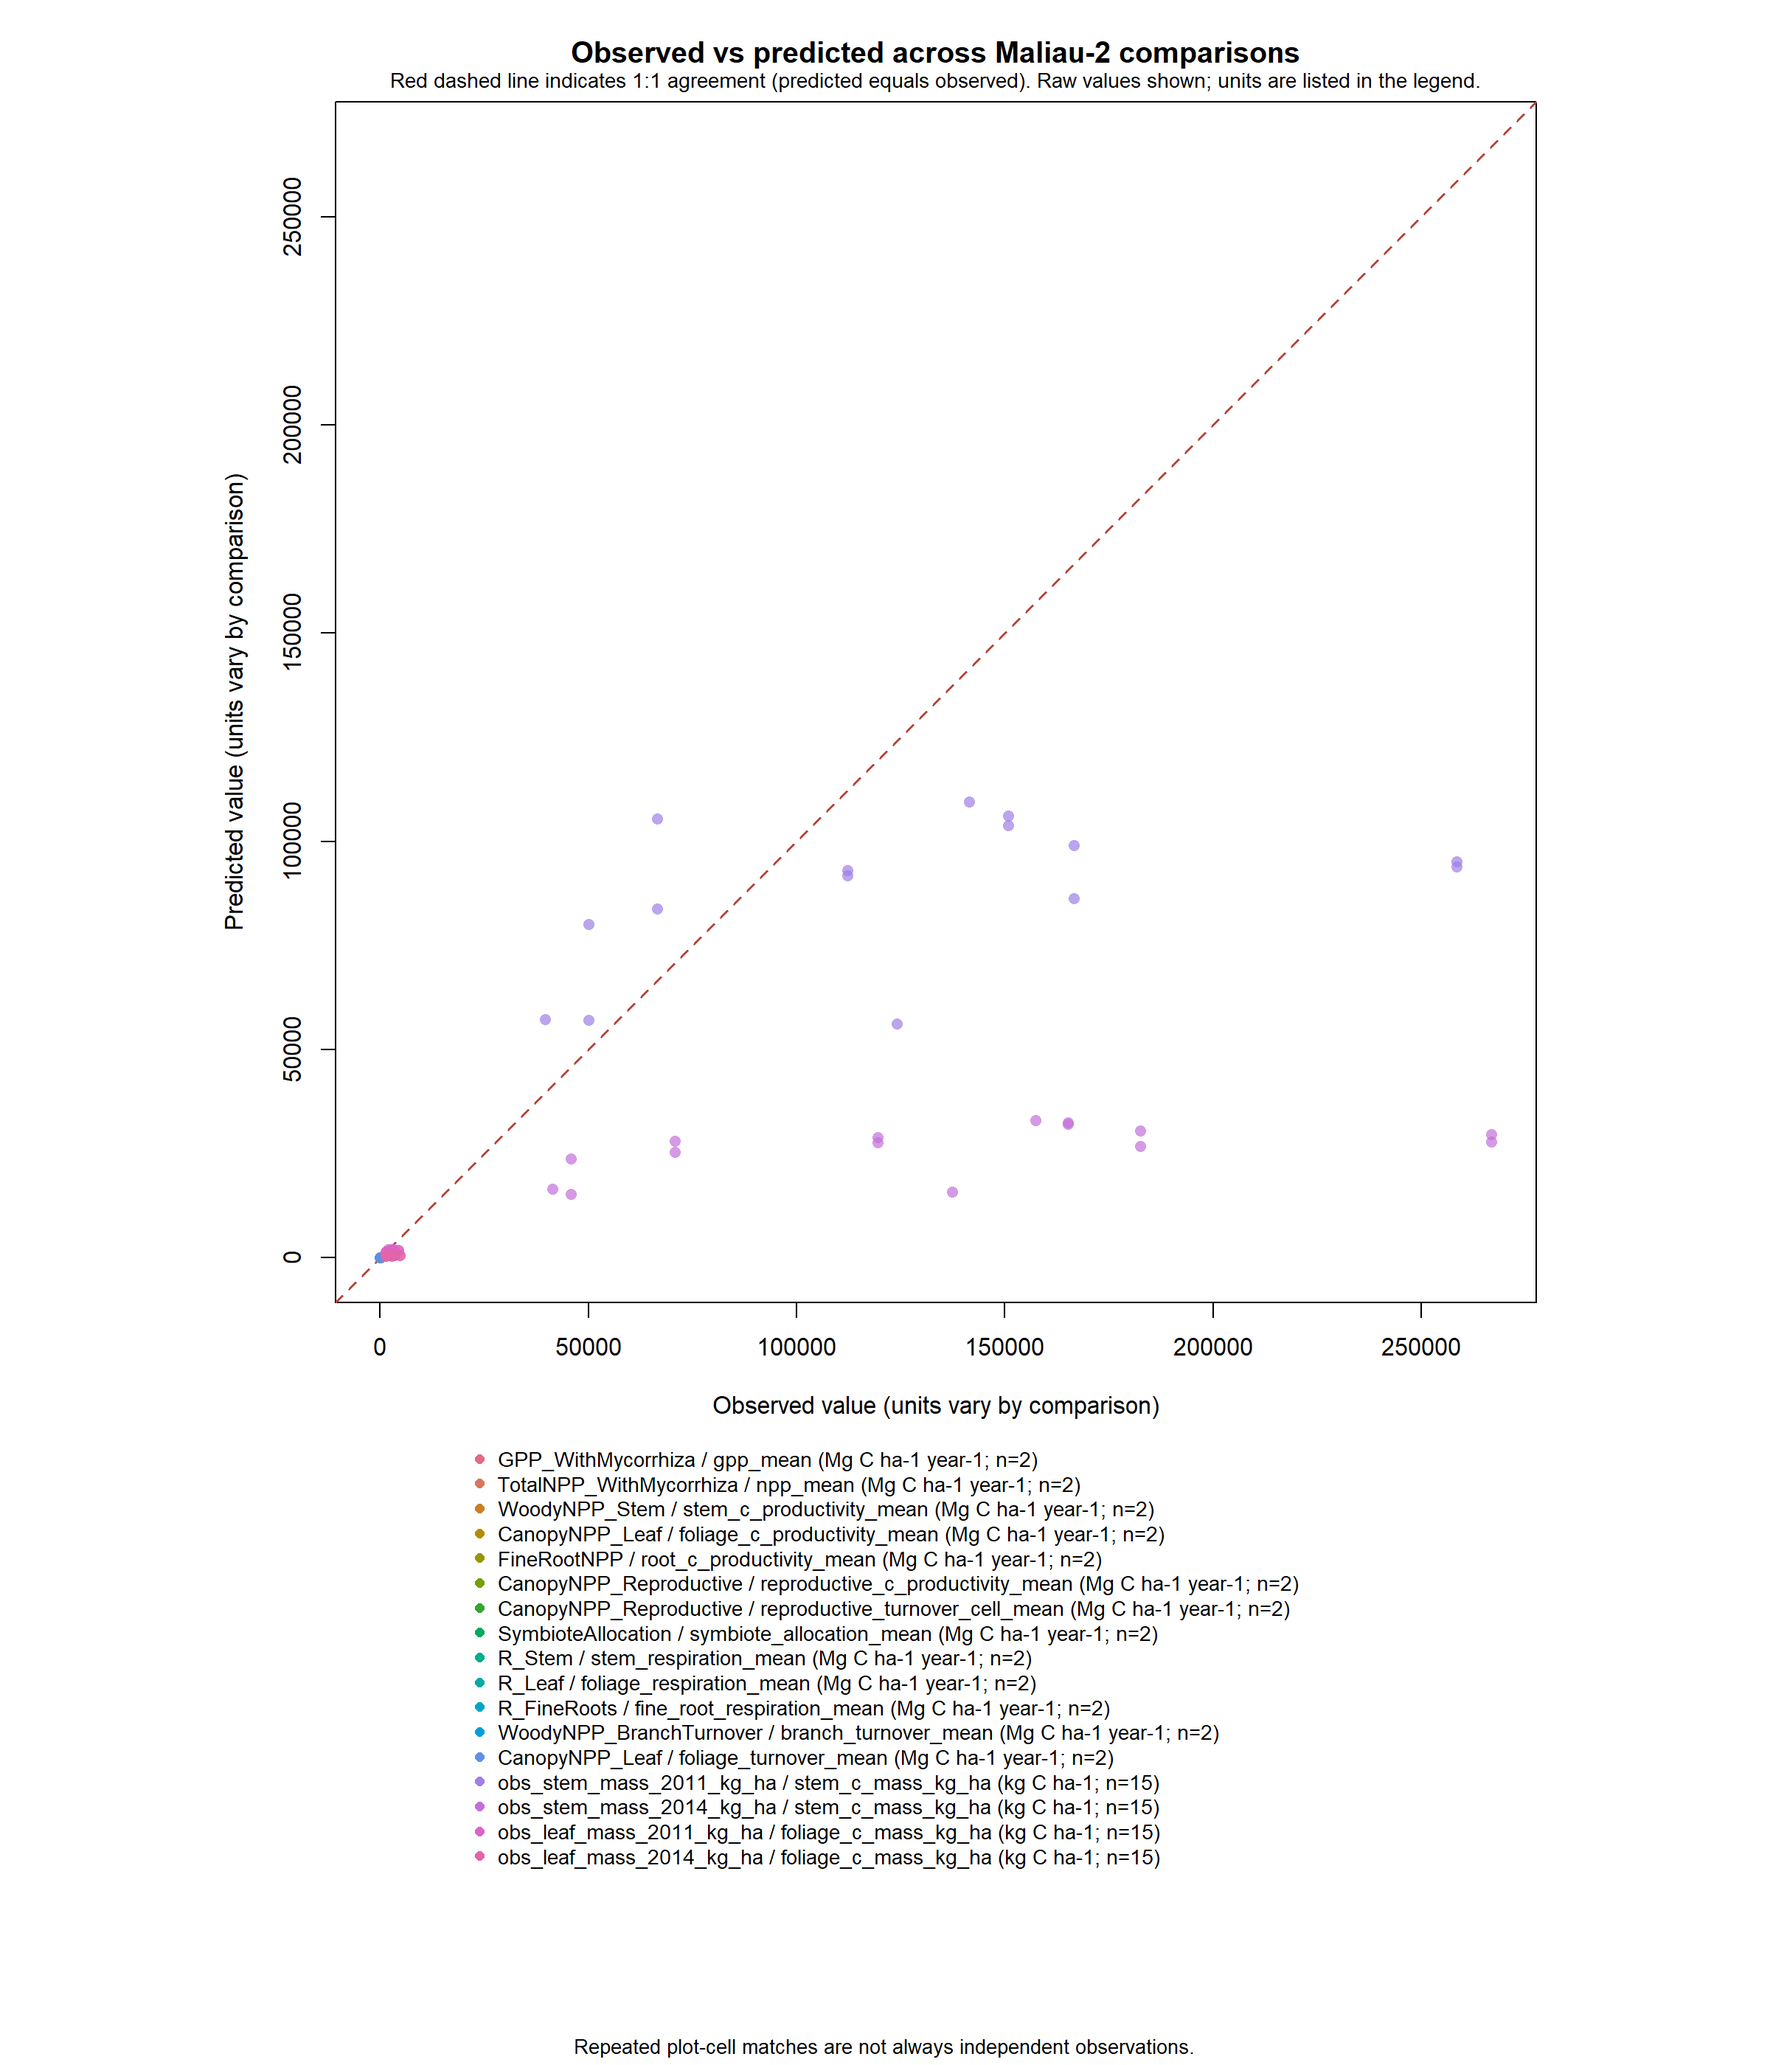
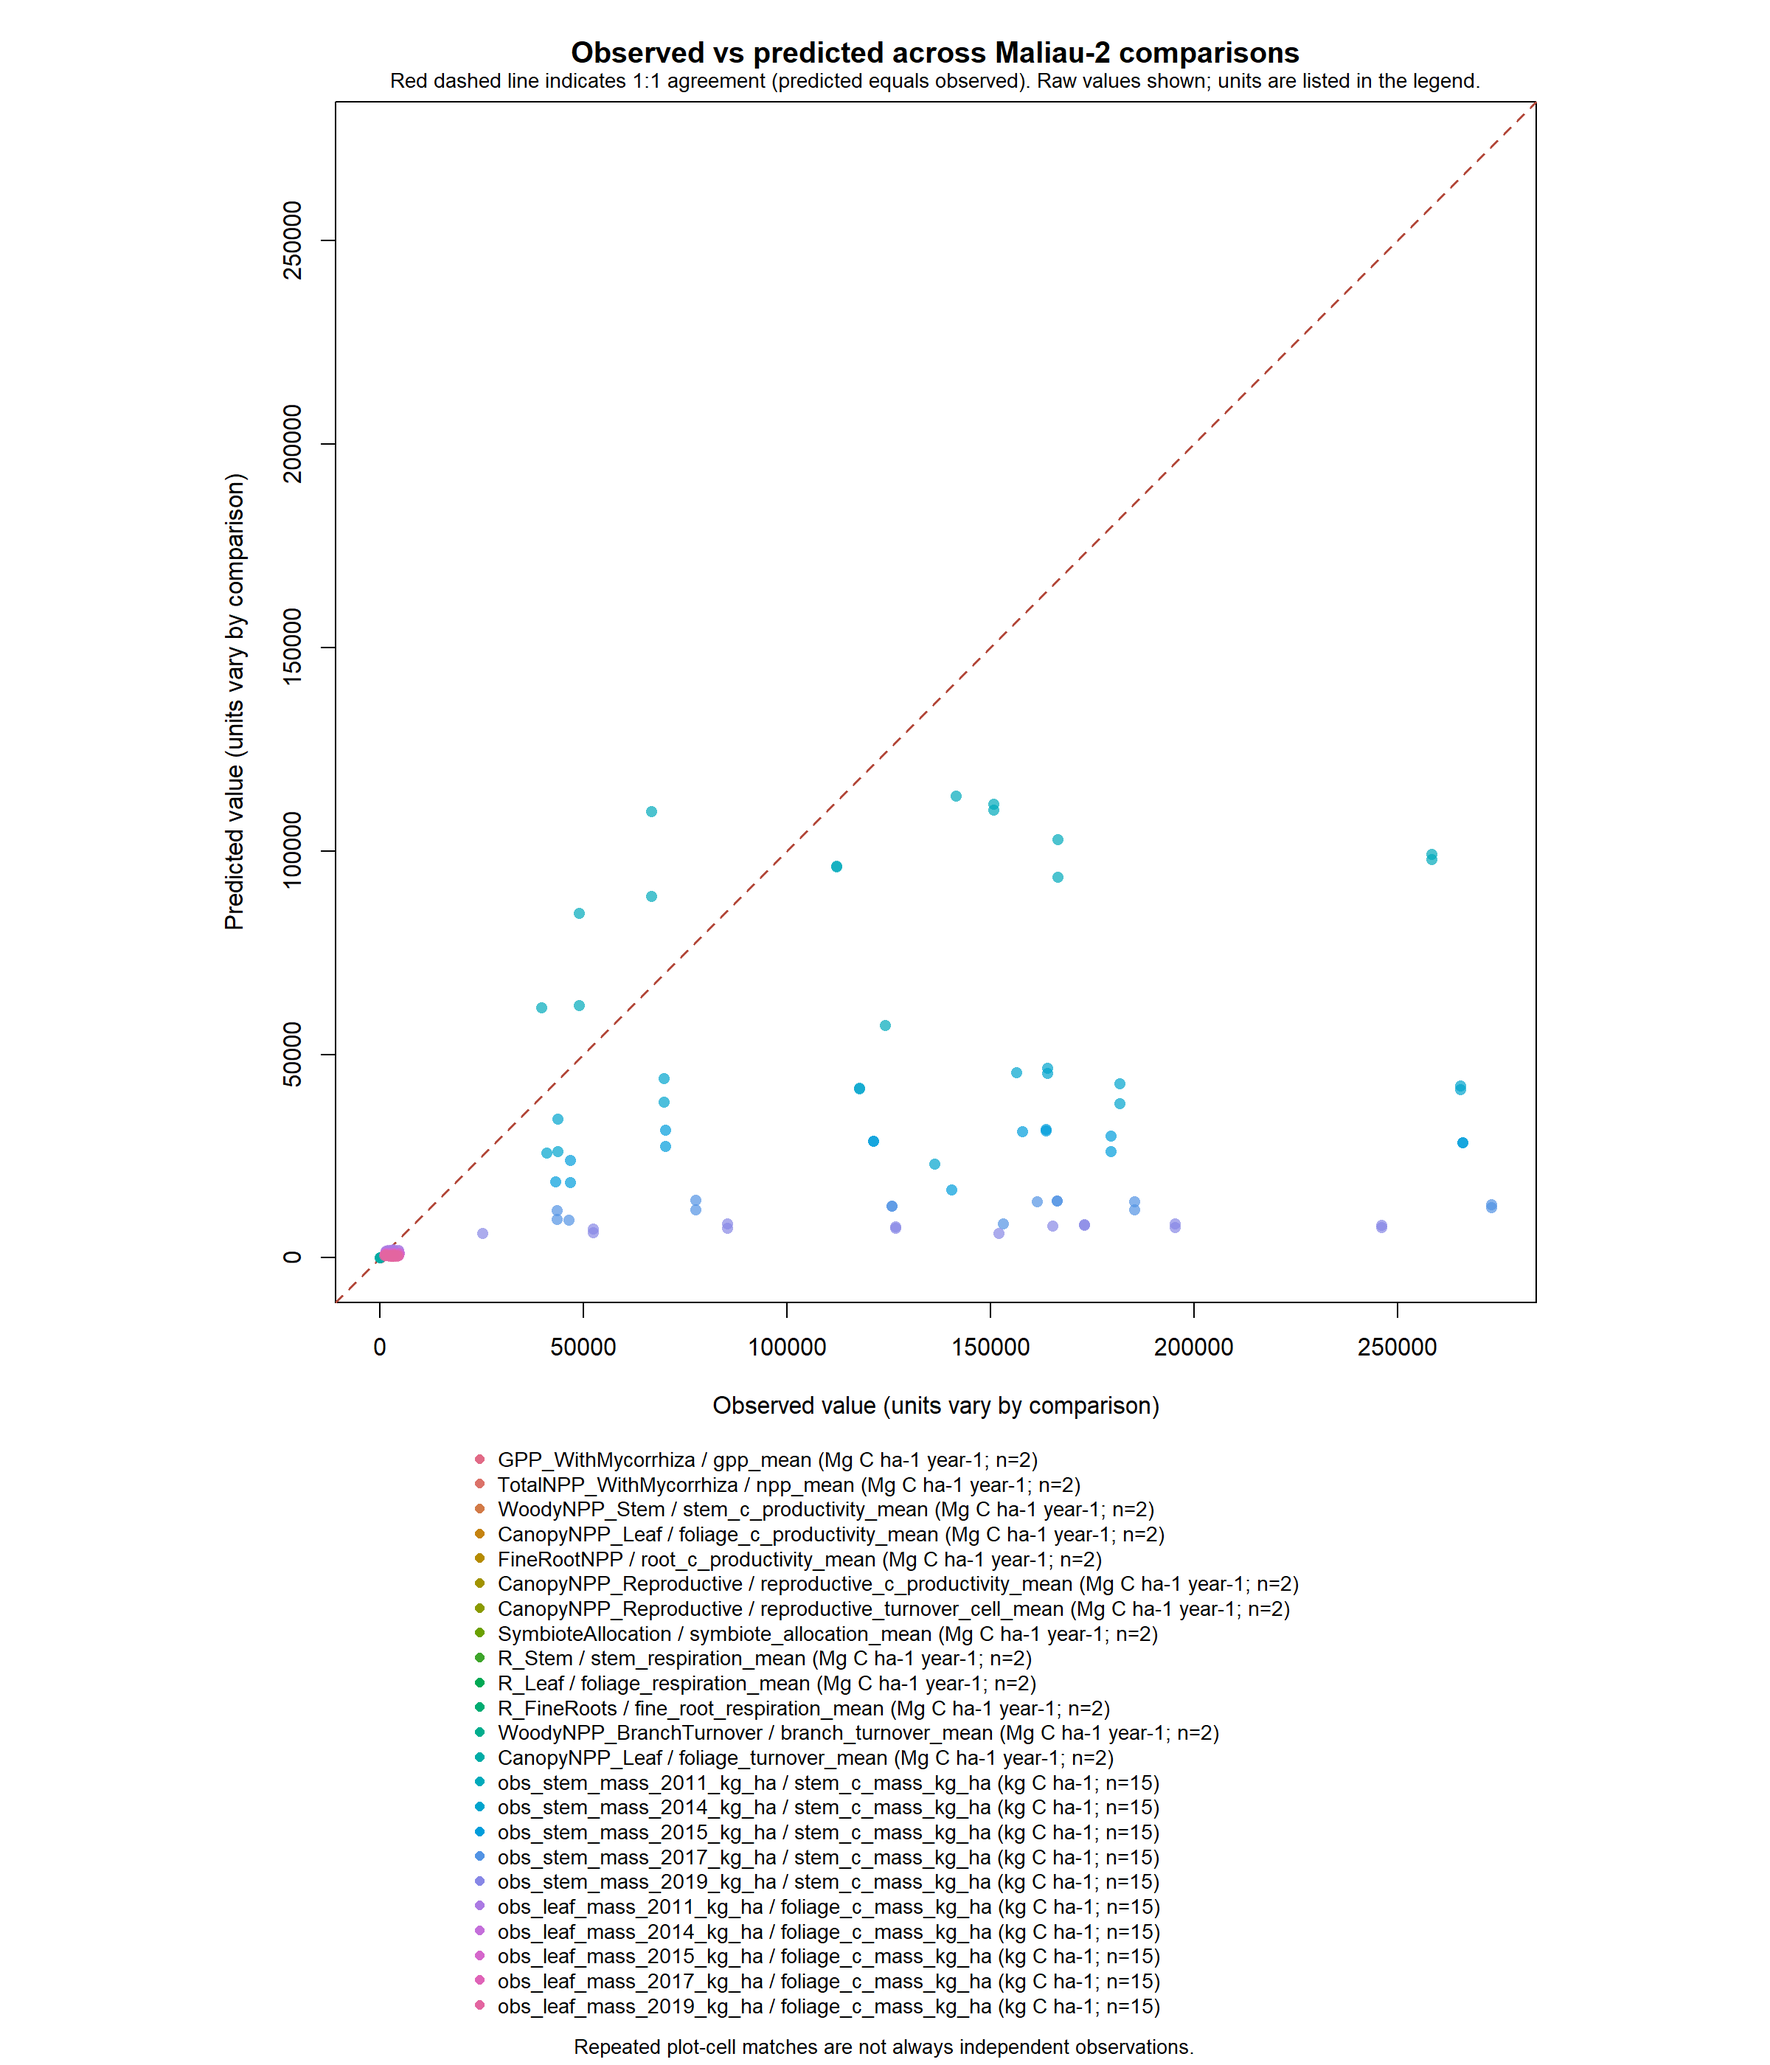
update plant validation tracker and summary figure

diff --git a/docs/plant_validation_tracker.md b/docs/plant_validation_tracker.md
@@ -26,7 +26,13 @@ Pooled consecutive simulation dates and cell IDs are shown as ranges.
 |CanopyNPP_Leaf           |foliage_turnover_mean            |Mg C ha-1 year-1 |Mg C ha-1 year-1 |Car_Bel; Car_Ser                                                                                                                      |0 to 99                                                    |2011-08-25 to 2018-07-17                                                                                                                                                           |2011-08 to 2018-07                                                                                                                                                                 |exact                        |pooled                        |pooled                        |pooled                         |
 |obs_stem_mass_2011_kg_ha |stem_c_mass_kg_ha                |kg C ha-1        |kg C ha-1        |OG2_728; OG2_727; OG2_727; OG2_721; OG2_723; OG2_723; OG2_728; OG2_725; OG2_724; OG2_724; OG2_725; OG2_726; OG2_722; OG2_720; OG2_720 |39; 43; 44; 45; 47; 48; 49; 54; 58; 59; 64; 86; 87; 96; 97 |2010-10-25; 2010-10-26; 2010-10-26; 2010-10-26; 2010-10-25; 2010-10-25; 2010-10-25; 2010-10-27; 2010-10-26; 2010-10-26; 2010-10-27; 2010-10-28; 2010-10-27; 2010-10-28; 2010-10-28 |2010-11-01; 2010-11-01; 2010-11-01; 2010-11-01; 2010-11-01; 2010-11-01; 2010-11-01; 2010-11-01; 2010-11-01; 2010-11-01; 2010-11-01; 2010-11-01; 2010-11-01; 2010-11-01; 2010-11-01 |exact                        |exact                         |exact                         |exact                          |
 |obs_stem_mass_2014_kg_ha |stem_c_mass_kg_ha                |kg C ha-1        |kg C ha-1        |OG2_728; OG2_727; OG2_727; OG2_721; OG2_723; OG2_723; OG2_728; OG2_725; OG2_724; OG2_724; OG2_725; OG2_726; OG2_722; OG2_720; OG2_720 |39; 43; 44; 45; 47; 48; 49; 54; 58; 59; 64; 86; 87; 96; 97 |2013-07-22; 2013-07-30; 2013-07-30; 2013-07-27; 2013-07-25; 2013-07-25; 2013-07-22; 2013-08-03; 2013-07-23; 2013-07-23; 2013-08-03; 2013-08-24; 2013-08-27; 2013-08-26; 2013-08-26 |2013-08-01; 2013-08-01; 2013-08-01; 2013-08-01; 2013-08-01; 2013-08-01; 2013-08-01; 2013-09-01; 2013-08-01; 2013-08-01; 2013-09-01; 2013-09-01; 2013-09-01; 2013-09-01; 2013-09-01 |exact                        |exact                         |exact                         |exact                          |
+|obs_stem_mass_2015_kg_ha |stem_c_mass_kg_ha                |kg C ha-1        |kg C ha-1        |OG2_728; OG2_727; OG2_727; OG2_721; OG2_723; OG2_723; OG2_728; OG2_725; OG2_724; OG2_724; OG2_725; OG2_726; OG2_722; OG2_720; OG2_720 |39; 43; 44; 45; 47; 48; 49; 54; 58; 59; 64; 86; 87; 96; 97 |2014-10-17; 2014-10-25; 2014-10-25; 2014-10-23; 2014-10-20; 2014-10-20; 2014-10-17; 2014-10-27; 2014-10-20; 2014-10-20; 2014-10-27; 2014-10-29; 2014-10-28; 2014-10-29; 2014-10-29 |2014-11-01; 2014-11-01; 2014-11-01; 2014-11-01; 2014-11-01; 2014-11-01; 2014-11-01; 2014-11-01; 2014-11-01; 2014-11-01; 2014-11-01; 2014-11-01; 2014-11-01; 2014-11-01; 2014-11-01 |exact                        |exact                         |exact                         |exact                          |
+|obs_stem_mass_2017_kg_ha |stem_c_mass_kg_ha                |kg C ha-1        |kg C ha-1        |OG2_728; OG2_727; OG2_727; OG2_721; OG2_723; OG2_723; OG2_728; OG2_725; OG2_724; OG2_724; OG2_725; OG2_726; OG2_722; OG2_720; OG2_720 |39; 43; 44; 45; 47; 48; 49; 54; 58; 59; 64; 86; 87; 96; 97 |2017-07-06; 2017-07-07; 2017-07-07; 2017-07-07; 2017-07-06; 2017-07-06; 2017-07-06; 2017-07-10; 2017-07-06; 2017-07-06; 2017-07-10; 2017-07-10; 2017-07-10; 2017-07-10; 2017-07-10 |2017-08-01; 2017-08-01; 2017-08-01; 2017-08-01; 2017-08-01; 2017-08-01; 2017-08-01; 2017-08-01; 2017-08-01; 2017-08-01; 2017-08-01; 2017-08-01; 2017-08-01; 2017-08-01; 2017-08-01 |exact                        |exact                         |exact                         |exact                          |
+|obs_stem_mass_2019_kg_ha |stem_c_mass_kg_ha                |kg C ha-1        |kg C ha-1        |OG2_728; OG2_727; OG2_727; OG2_721; OG2_723; OG2_723; OG2_728; OG2_725; OG2_724; OG2_724; OG2_725; OG2_726; OG2_722; OG2_720; OG2_720 |39; 43; 44; 45; 47; 48; 49; 54; 58; 59; 64; 86; 87; 96; 97 |2019-07-22; 2019-08-03; 2019-08-03; 2019-08-05; 2019-07-24; 2019-07-24; 2019-07-22; 2019-08-02; 2019-07-24; 2019-07-24; 2019-08-02; 2019-08-02; 2019-07-25; 2019-07-31; 2019-07-31 |2019-08-02; 2019-09-01; 2019-09-01; 2019-09-01; 2019-08-02; 2019-08-02; 2019-08-02; 2019-08-02; 2019-08-02; 2019-08-02; 2019-08-02; 2019-08-02; 2019-08-02; 2019-08-02; 2019-08-02 |exact                        |exact                         |exact                         |exact                          |
 |obs_leaf_mass_2011_kg_ha |foliage_c_mass_kg_ha             |kg C ha-1        |kg C ha-1        |OG2_728; OG2_727; OG2_727; OG2_721; OG2_723; OG2_723; OG2_728; OG2_725; OG2_724; OG2_724; OG2_725; OG2_726; OG2_722; OG2_720; OG2_720 |39; 43; 44; 45; 47; 48; 49; 54; 58; 59; 64; 86; 87; 96; 97 |2010-10-25; 2010-10-26; 2010-10-26; 2010-10-26; 2010-10-25; 2010-10-25; 2010-10-25; 2010-10-27; 2010-10-26; 2010-10-26; 2010-10-27; 2010-10-28; 2010-10-27; 2010-10-28; 2010-10-28 |2010-11-01; 2010-11-01; 2010-11-01; 2010-11-01; 2010-11-01; 2010-11-01; 2010-11-01; 2010-11-01; 2010-11-01; 2010-11-01; 2010-11-01; 2010-11-01; 2010-11-01; 2010-11-01; 2010-11-01 |exact                        |exact                         |exact                         |exact                          |
 |obs_leaf_mass_2014_kg_ha |foliage_c_mass_kg_ha             |kg C ha-1        |kg C ha-1        |OG2_728; OG2_727; OG2_727; OG2_721; OG2_723; OG2_723; OG2_728; OG2_725; OG2_724; OG2_724; OG2_725; OG2_726; OG2_722; OG2_720; OG2_720 |39; 43; 44; 45; 47; 48; 49; 54; 58; 59; 64; 86; 87; 96; 97 |2013-07-22; 2013-07-30; 2013-07-30; 2013-07-27; 2013-07-25; 2013-07-25; 2013-07-22; 2013-08-03; 2013-07-23; 2013-07-23; 2013-08-03; 2013-08-24; 2013-08-27; 2013-08-26; 2013-08-26 |2013-08-01; 2013-08-01; 2013-08-01; 2013-08-01; 2013-08-01; 2013-08-01; 2013-08-01; 2013-09-01; 2013-08-01; 2013-08-01; 2013-09-01; 2013-09-01; 2013-09-01; 2013-09-01; 2013-09-01 |exact                        |exact                         |exact                         |exact                          |
+|obs_leaf_mass_2015_kg_ha |foliage_c_mass_kg_ha             |kg C ha-1        |kg C ha-1        |OG2_728; OG2_727; OG2_727; OG2_721; OG2_723; OG2_723; OG2_728; OG2_725; OG2_724; OG2_724; OG2_725; OG2_726; OG2_722; OG2_720; OG2_720 |39; 43; 44; 45; 47; 48; 49; 54; 58; 59; 64; 86; 87; 96; 97 |2014-10-17; 2014-10-25; 2014-10-25; 2014-10-23; 2014-10-20; 2014-10-20; 2014-10-17; 2014-10-27; 2014-10-20; 2014-10-20; 2014-10-27; 2014-10-29; 2014-10-28; 2014-10-29; 2014-10-29 |2014-11-01; 2014-11-01; 2014-11-01; 2014-11-01; 2014-11-01; 2014-11-01; 2014-11-01; 2014-11-01; 2014-11-01; 2014-11-01; 2014-11-01; 2014-11-01; 2014-11-01; 2014-11-01; 2014-11-01 |exact                        |exact                         |exact                         |exact                          |
+|obs_leaf_mass_2017_kg_ha |foliage_c_mass_kg_ha             |kg C ha-1        |kg C ha-1        |OG2_728; OG2_727; OG2_727; OG2_721; OG2_723; OG2_723; OG2_728; OG2_725; OG2_724; OG2_724; OG2_725; OG2_726; OG2_722; OG2_720; OG2_720 |39; 43; 44; 45; 47; 48; 49; 54; 58; 59; 64; 86; 87; 96; 97 |2017-07-06; 2017-07-07; 2017-07-07; 2017-07-07; 2017-07-06; 2017-07-06; 2017-07-06; 2017-07-10; 2017-07-06; 2017-07-06; 2017-07-10; 2017-07-10; 2017-07-10; 2017-07-10; 2017-07-10 |2017-08-01; 2017-08-01; 2017-08-01; 2017-08-01; 2017-08-01; 2017-08-01; 2017-08-01; 2017-08-01; 2017-08-01; 2017-08-01; 2017-08-01; 2017-08-01; 2017-08-01; 2017-08-01; 2017-08-01 |exact                        |exact                         |exact                         |exact                          |
+|obs_leaf_mass_2019_kg_ha |foliage_c_mass_kg_ha             |kg C ha-1        |kg C ha-1        |OG2_728; OG2_727; OG2_727; OG2_721; OG2_723; OG2_723; OG2_728; OG2_725; OG2_724; OG2_724; OG2_725; OG2_726; OG2_722; OG2_720; OG2_720 |39; 43; 44; 45; 47; 48; 49; 54; 58; 59; 64; 86; 87; 96; 97 |2019-07-22; 2019-08-03; 2019-08-03; 2019-08-05; 2019-07-24; 2019-07-24; 2019-07-22; 2019-08-02; 2019-07-24; 2019-07-24; 2019-08-02; 2019-08-02; 2019-07-25; 2019-07-31; 2019-07-31 |2019-08-02; 2019-09-01; 2019-09-01; 2019-09-01; 2019-08-02; 2019-08-02; 2019-08-02; 2019-08-02; 2019-08-02; 2019-08-02; 2019-08-02; 2019-08-02; 2019-08-02; 2019-08-02; 2019-08-02 |exact                        |exact                         |exact                         |exact                          |
 
 ![Observed vs predicted values for Maliau-2 validation comparisons](../analysis/plant/output_data/validation/metadata/observed_predicted_summary/observed_predicted_summary_maliau_2.png)
